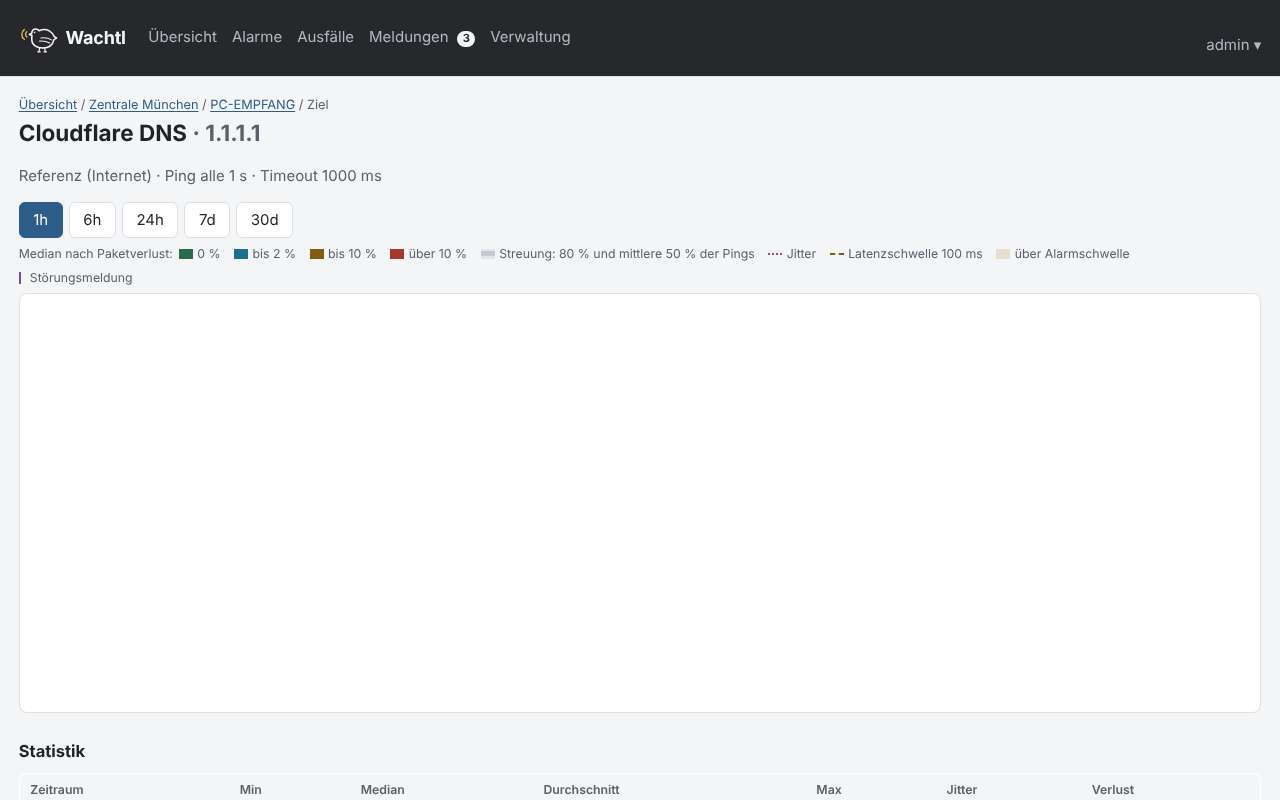
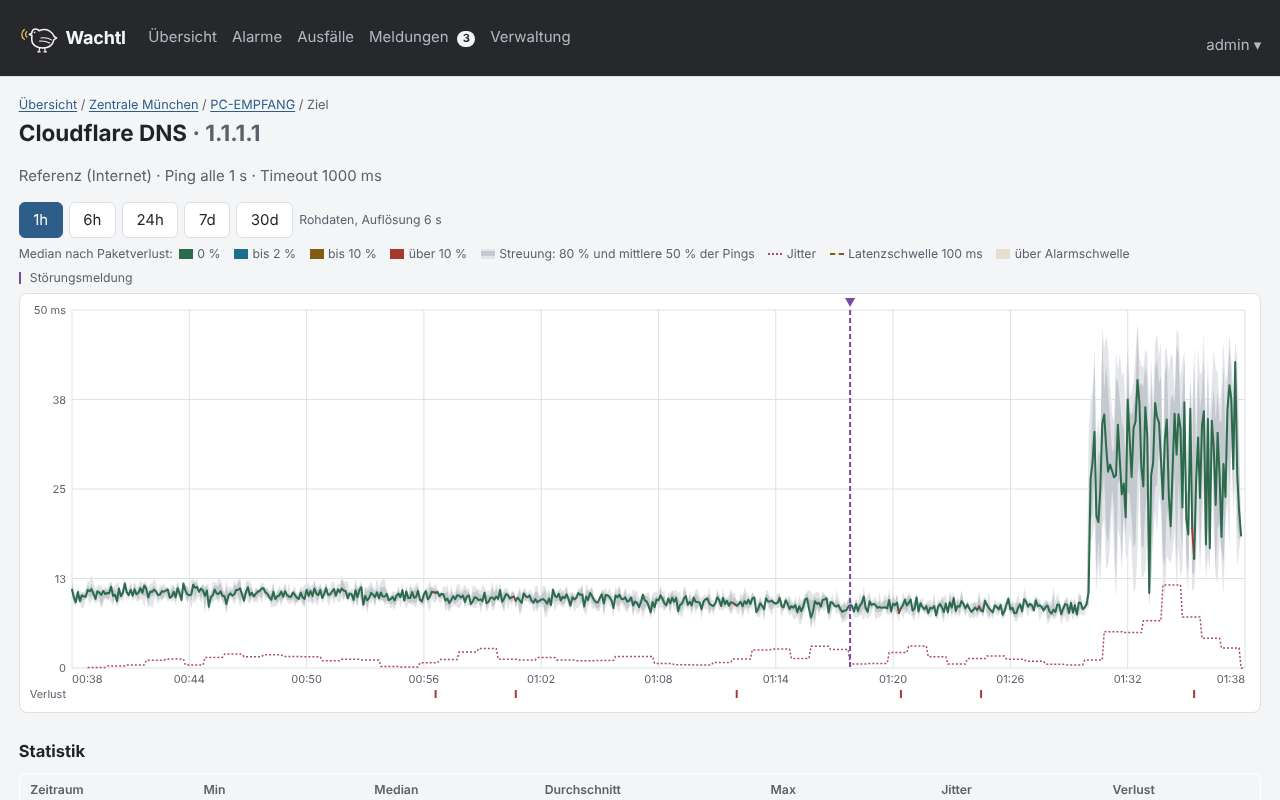
docs(audit): Vorher/Nachher-Screenshots (Desktop, Handy mit Touch) [E-02]
Claude-Session: https://claude.ai/code/session_015sBTFuscgxeCPKLTfDQeqQ

diff --git a/server/e2e/screens.js b/server/e2e/screens.js
@@ -1,23 +1,24 @@
-// Screenshots wichtiger Seiten (Desktop 1280 px, Handy 375 px) für docs/audit/screens/<name>/.
-// Aufruf aus server/e2e nach start-server.sh und einem Testlauf (.auth/admin.json): node screens.js vorher
-const { chromium } = require("@playwright/test");
-const { BASE, PAGES } = require("./pages");
+// Screenshots wichtiger Seiten (Desktop 1280 px, Handy mit Touch = iPhone 13) für docs/audit/screens/<name>/.
+// Aufruf aus server/e2e nach start-server.sh: node screens.js nachher   (Server: WACHTL_BASE_URL)
+const { chromium, devices } = require("@playwright/test");
+const { BASE, PASSWORD, PAGES } = require("./pages");
 const out = `${__dirname}/../../docs/audit/screens/${process.argv[2] || "neu"}`;
 const KEEP = ["Übersicht", "Standort", "Probe", "Ziel (Graph)", "Alarme", "Verwaltung", "Konto"];
 (async () => {
   require("fs").mkdirSync(out, { recursive: true });
   const browser = await chromium.launch(process.env.CHROME_PATH ? { executablePath: process.env.CHROME_PATH } : {});
-  for (const [w, h, tag] of [[1280, 800, "desktop"], [375, 812, "mobil"]]) {
-    const ctx = await browser.newContext({ viewport: { width: w, height: h }, storageState: `${__dirname}/.auth/admin.json`, locale: "de-DE" });
-    const page = await ctx.newPage();
+  for (const [opts, tag] of [[{ viewport: { width: 1280, height: 800 } }, "desktop"], [devices["iPhone 13"], "mobil"]]) {
+    const page = await (await browser.newContext({ ...opts, locale: "de-DE" })).newPage();
+    await page.goto(BASE + "/login");
+    if (tag === "mobil") await page.screenshot({ path: `${out}/mobil-Login.jpg`, type: "jpeg", quality: 60 });
+    await page.getByLabel("Benutzername").fill("admin");
+    await page.getByLabel("Passwort").fill(PASSWORD);
+    await Promise.all([page.waitForURL(BASE + "/"), page.getByRole("button", { name: "Anmelden" }).click()]);
     for (const [name, p] of PAGES.filter(([n]) => KEEP.includes(n))) {
       await page.goto(BASE + p);
+      await page.waitForTimeout(800);   // Graph lädt per fetch
       await page.screenshot({ path: `${out}/${tag}-${name.replace(/[^\p{L}\d]+/gu, "_")}.jpg`, type: "jpeg", quality: 60 });
     }
-    await ctx.close();
   }
-  const anon = await browser.newPage({ viewport: { width: 375, height: 812 } });
-  await anon.goto(BASE + "/login");
-  await anon.screenshot({ path: `${out}/mobil-Login.jpg`, type: "jpeg", quality: 60 });
   await browser.close();
 })();
